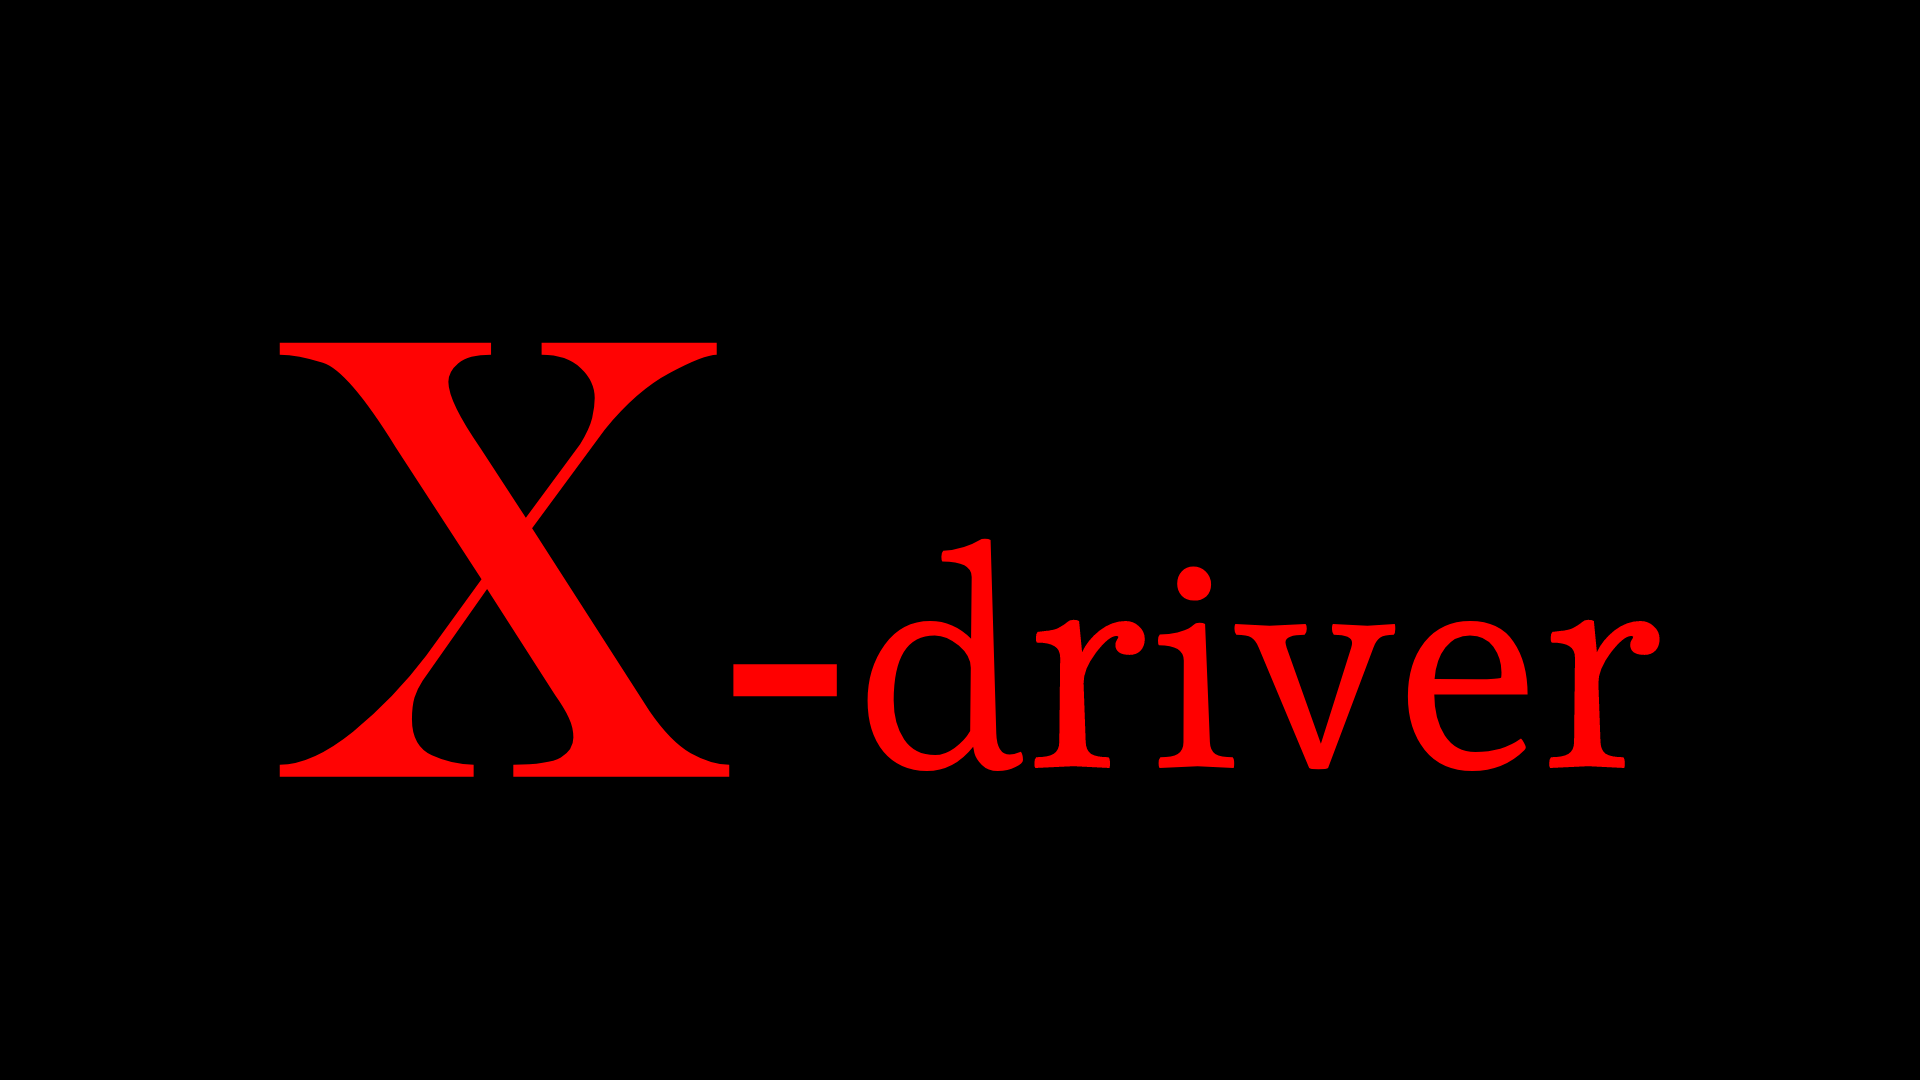
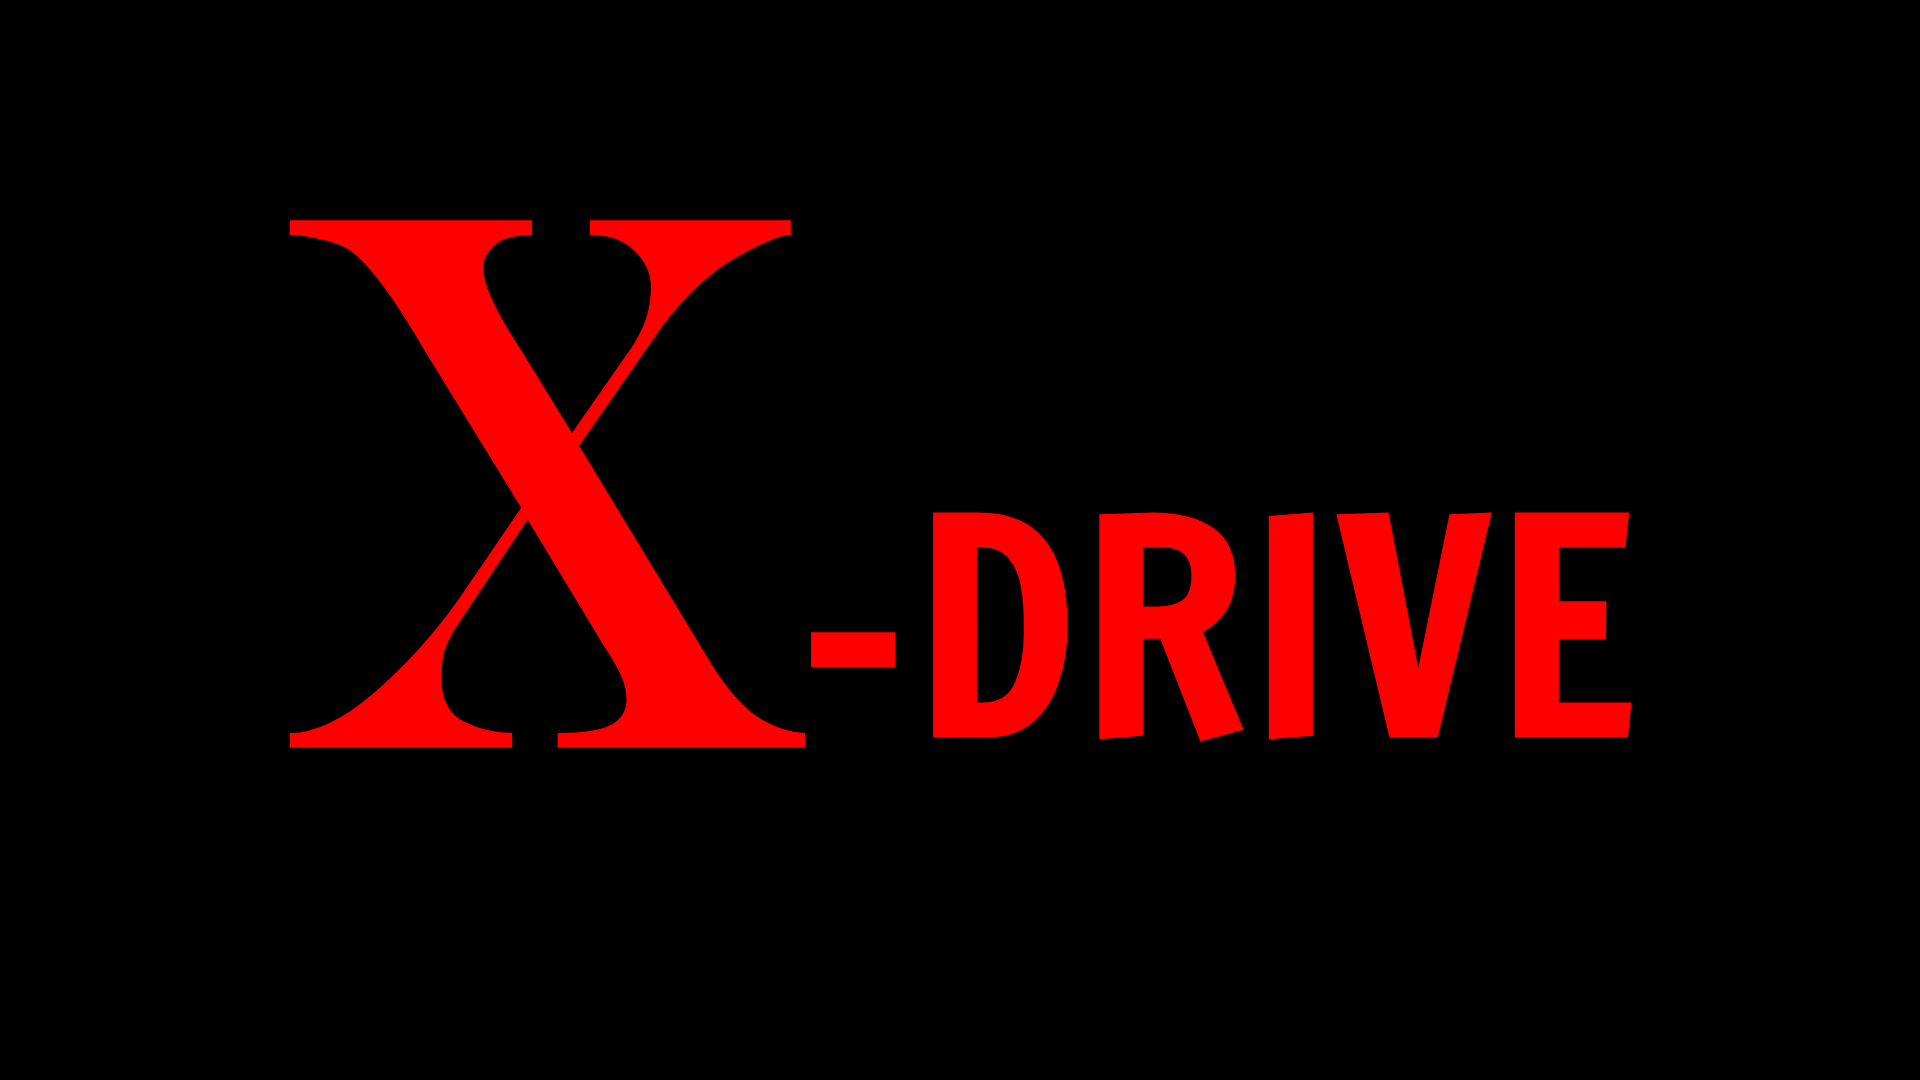
add cover img

Changed region(s): [[0.125, 0.1833, 0.875, 0.7333]]

diff --git a/README.md b/README.md
@@ -1,3 +1,5 @@
+
+![X-Drive](./md_source/cover_img.png)
 # **Project Name: Self-driving Car Simulator**
 
 ## **Purpose**:
